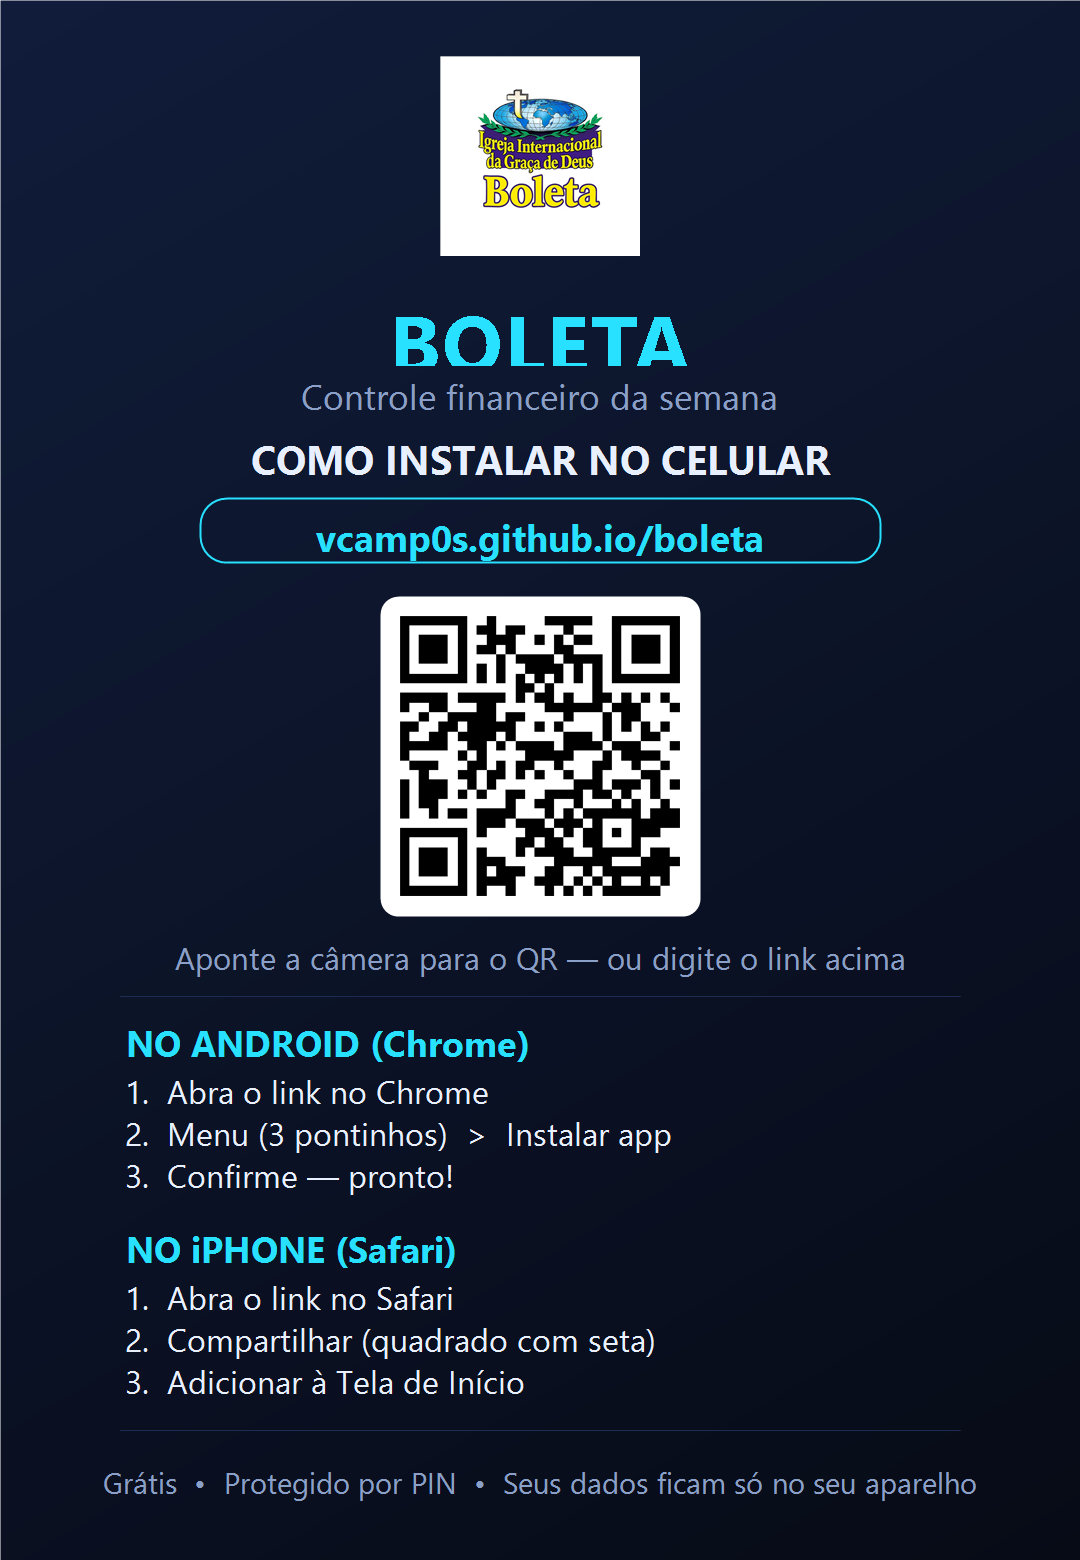
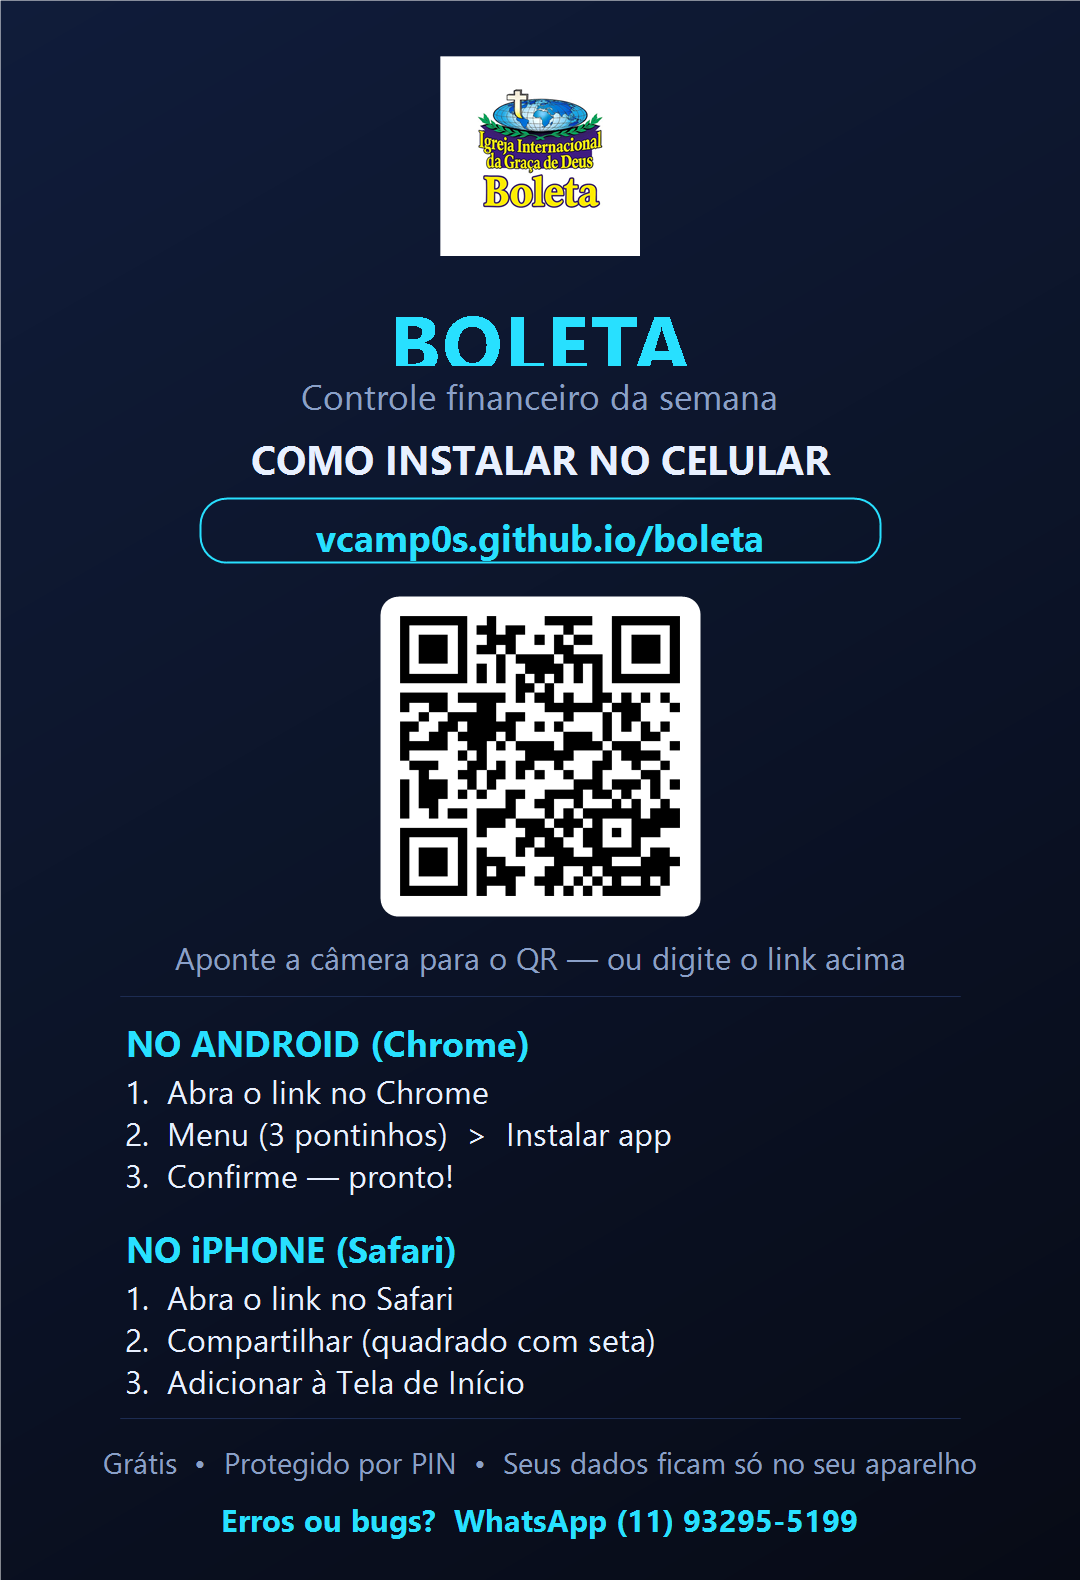
Contato de suporte (WhatsApp) no tour e no folheto de instalacao
Slide de protecao do tour, pagina instalar.html e folheto PNG agora trazem WhatsApp (11) 93295-5199 para reportar erros. sw cache v18.

Changed region(s): [[0.0917, 0.1846, 0.9167, 0.9846], [0.4278, 0.0615, 0.55, 0.1538]]

diff --git a/js/app.js b/js/app.js
@@ -179,7 +179,7 @@
       text: 'Em <b>Início</b> você vê o saldo do mês (verde = positivo, vermelho = negativo). Em <b>Histórico</b>, o resultado do ano e o gráfico.' },
     { art: '📲 🔒',
       title: 'Enviar e proteger',
-      text: 'Envie o resumo pro WhatsApp num toque. Tudo é protegido por PIN e fica só neste aparelho — lembre de fazer backup em Histórico.' },
+      text: 'Envie o resumo pro WhatsApp num toque. Tudo é protegido por PIN e fica só neste aparelho — lembre de fazer backup em Histórico.<br><br>Encontrou um erro? Avise o desenvolvedor no WhatsApp <b>(11) 93295-5199</b>.' },
     { art: '🏢',
       title: 'Sua unidade',
       text: 'De qual unidade você é responsável agora? Você pode mudar depois em Ajustes.',

diff --git a/instalar.html b/instalar.html
@@ -104,7 +104,10 @@
     <p class="note">
       <span class="badge">Grátis e seguro.</span><br>
       Protegido por uma senha (PIN) de 4 dígitos.<br>
-      Seus dados ficam guardados <b>só no seu aparelho</b> — ninguém mais vê.
+      Seus dados ficam guardados <b>só no seu aparelho</b> — ninguém mais vê.<br><br>
+      Encontrou um erro ou bug? Fale no
+      <a href="https://wa.me/5511932955199?text=Ol%C3%A1!%20Encontrei%20um%20erro%20no%20Boleta%3A%20"
+        style="color:var(--neon);font-weight:700;text-decoration:none">WhatsApp (11) 93295-5199</a>
     </p>
   </div>
 </body>

diff --git a/sw.js b/sw.js
@@ -1,5 +1,5 @@
 /* Service Worker — cache offline básico (app shell) */
-const CACHE = 'boleta-v17';
+const CACHE = 'boleta-v18';
 const ASSETS = [
   './',
   './index.html',
